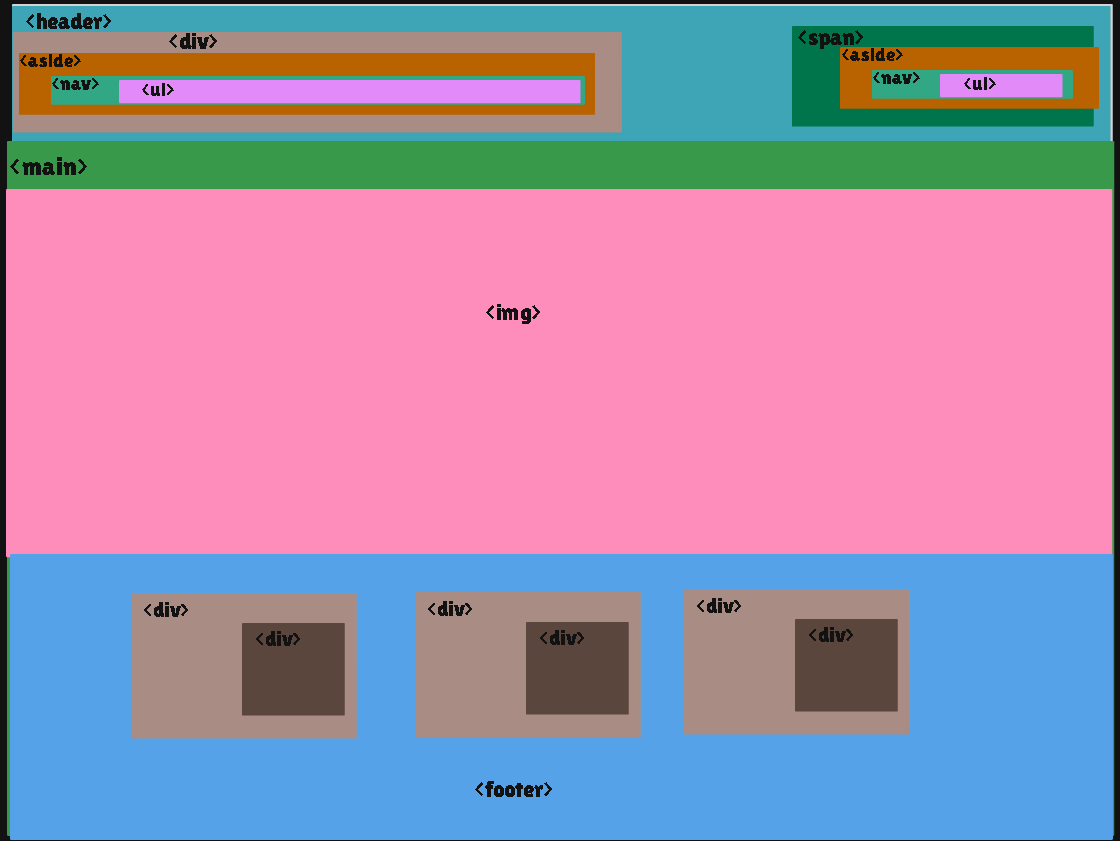
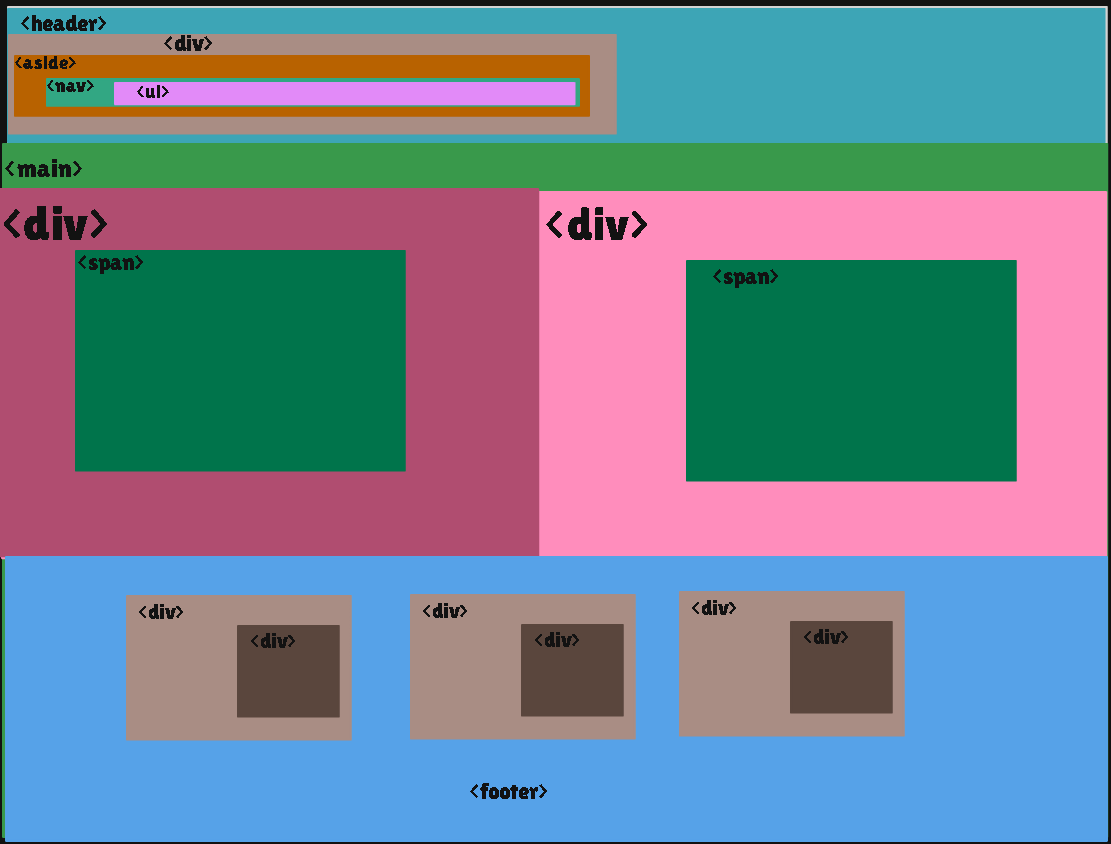
feat: Create initial HTML structures for Epic Games and FBI exercise pages, along with an accompanying image.

diff --git a/Clases/Ejercicio3tercerapagina/ejercicio3tercerapagina-Epicgames.html b/Clases/Ejercicio3tercerapagina/ejercicio3tercerapagina-Epicgames.html
@@ -1,0 +1,39 @@
+<html>
+    <head><title>Epic games</title></head>
+    <body>
+        <header> <div><aside><nav><ul>
+            <li>
+                <a href="#information">Acerca de Epicgames</a>
+            </li>
+            <li>
+                <a href="#news">Noticias</a>
+            </li>
+            <li>
+                <a href="#store">Tienda</a>
+            </li>
+        </ul></nav>
+    </aside>
+    </div>
+    </header>
+    <main>
+        <div>
+<span>UNREAL ENGINE</span>
+        </div>
+        <div>
+<span>FORTNITE</span>
+        </div>
+<footer>
+    <div>
+        <div>Juegos</div>
+    </div>
+    <div>
+        <div>Marketplaces</div>
+    </div>
+    <div>
+        <div>Herramientas</div>
+    </div>
+</footer>
+    </main>
+    </body>
+    
+</html>
